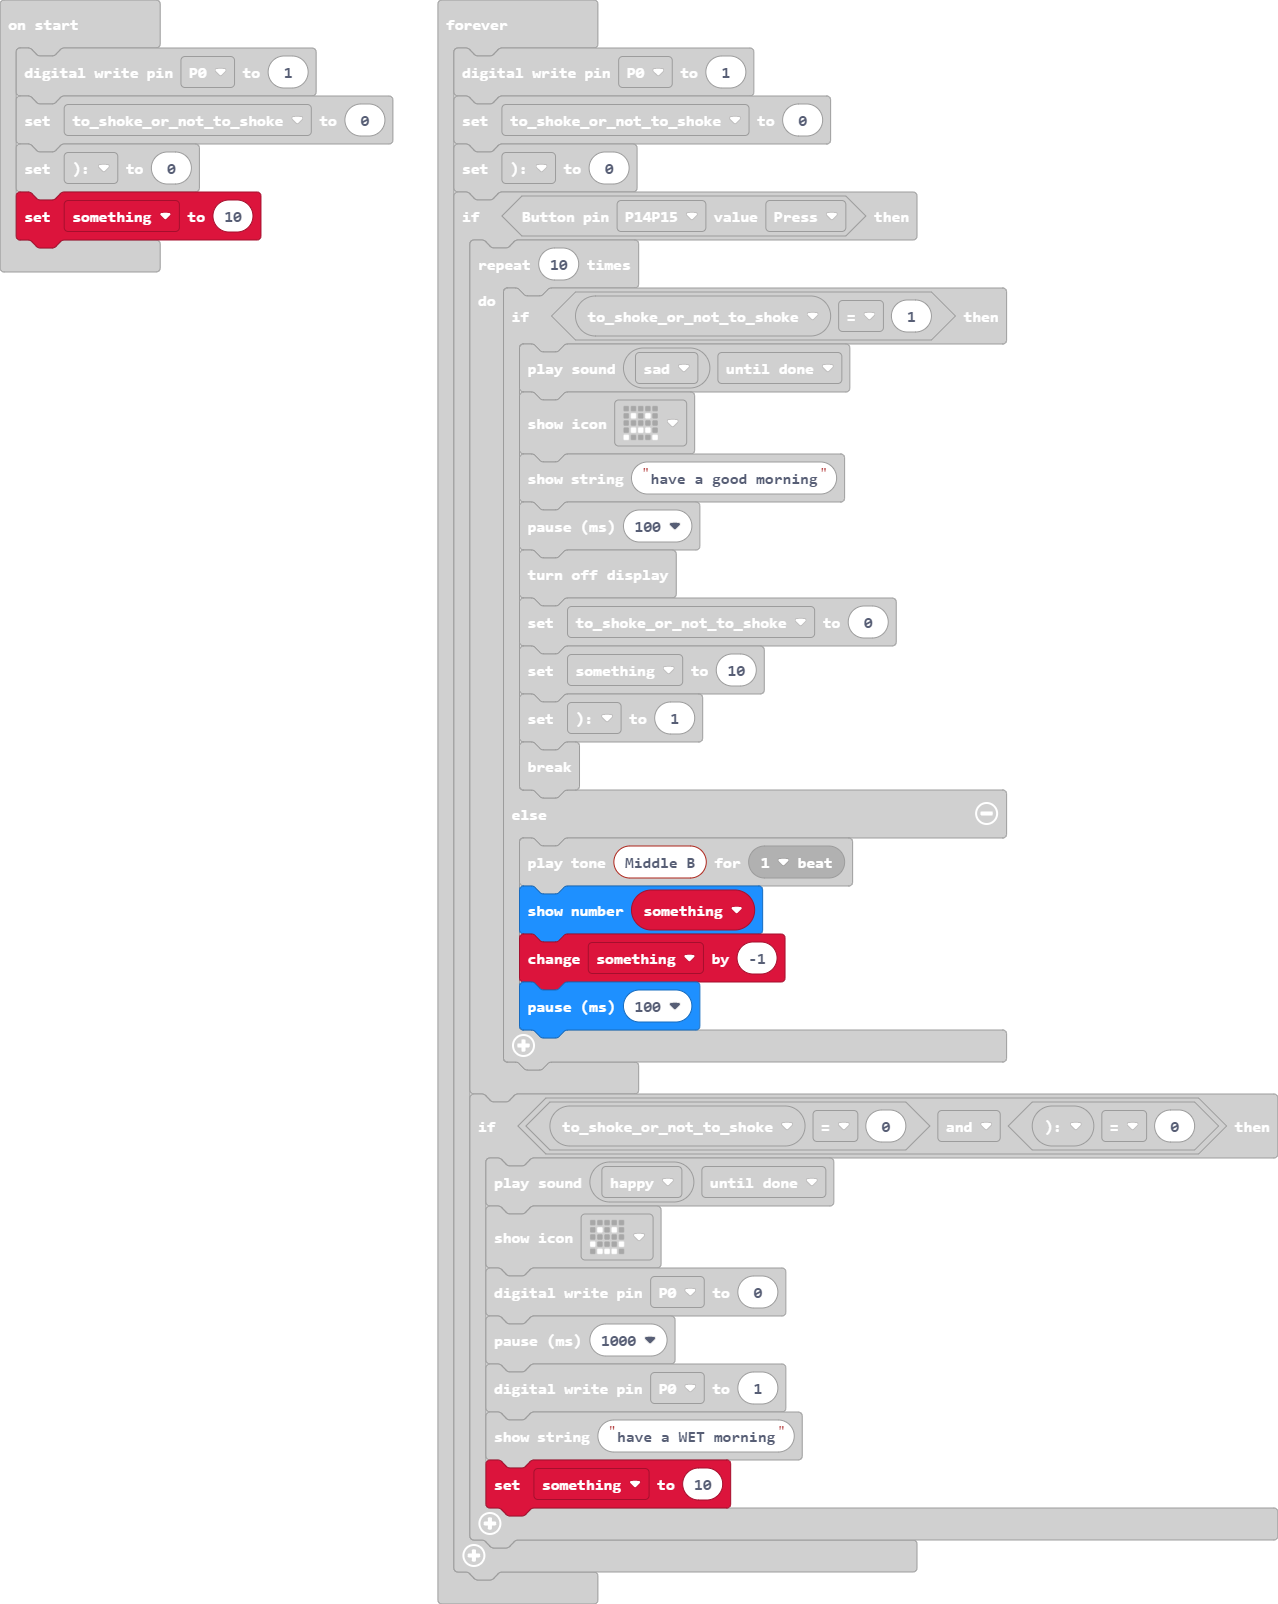
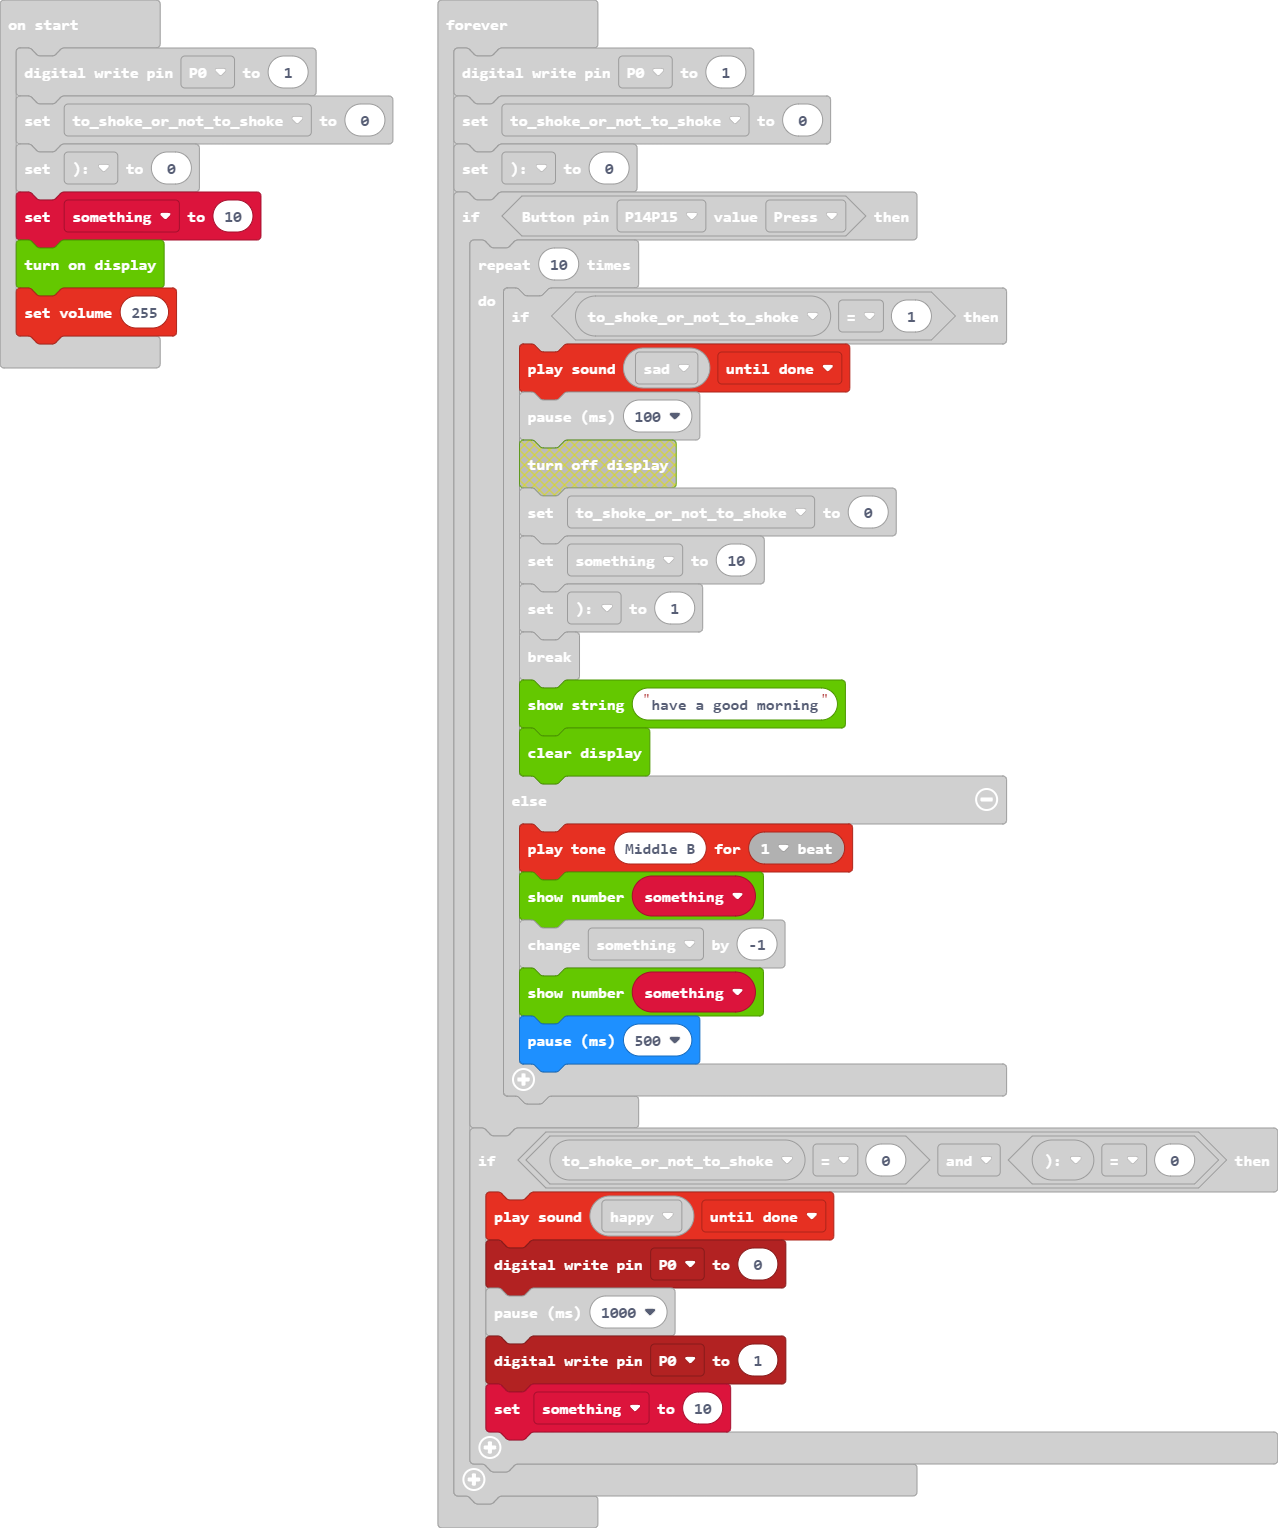
alpha 2.1

Changed region(s): [[0.3662, 0.0308, 1.0, 0.9843], [0.0, 0.0308, 0.3052, 0.2461]]

diff --git a/main.ts b/main.ts
@@ -2,6 +2,8 @@ pins.digitalWritePin(DigitalPin.P0, 1)
 let to_shoke_or_not_to_shoke = 0
 let _ = 0
 let something = 10
+TM1650.on()
+music.setVolume(255)
 basic.forever(function () {
     if (ModuleWorld_Digital.Button(ModuleWorld_Digital.mwDigitalNum.P12P13, ModuleWorld_Digital.enButton.Press)) {
         to_shoke_or_not_to_shoke = 1
@@ -16,28 +18,26 @@ basic.forever(function () {
         for (let index = 0; index < 10; index++) {
             if (to_shoke_or_not_to_shoke == 1) {
                 music.playSoundEffect(music.builtinSoundEffect(soundExpression.sad), SoundExpressionPlayMode.UntilDone)
-                basic.showIcon(IconNames.Sad)
-                basic.showString("have a good morning")
                 basic.pause(100)
-                TM1650.off()
                 to_shoke_or_not_to_shoke = 0
                 something = 10
                 _ = 1
                 break;
+TM1650.showSring("have a good morning")
+                TM1650.clear()
             } else {
                 music.playTone(494, music.beat(BeatFraction.Whole))
-                basic.showNumber(something)
+                TM1650.showNumber(something)
                 something += -1
-                basic.pause(100)
+                TM1650.showNumber(something)
+                basic.pause(500)
             }
         }
         if (to_shoke_or_not_to_shoke == 0 && _ == 0) {
             music.playSoundEffect(music.builtinSoundEffect(soundExpression.happy), SoundExpressionPlayMode.UntilDone)
-            basic.showIcon(IconNames.Happy)
             pins.digitalWritePin(DigitalPin.P0, 0)
             basic.pause(1000)
             pins.digitalWritePin(DigitalPin.P0, 1)
-            basic.showString("have a WET morning")
             something = 10
         }
     }
